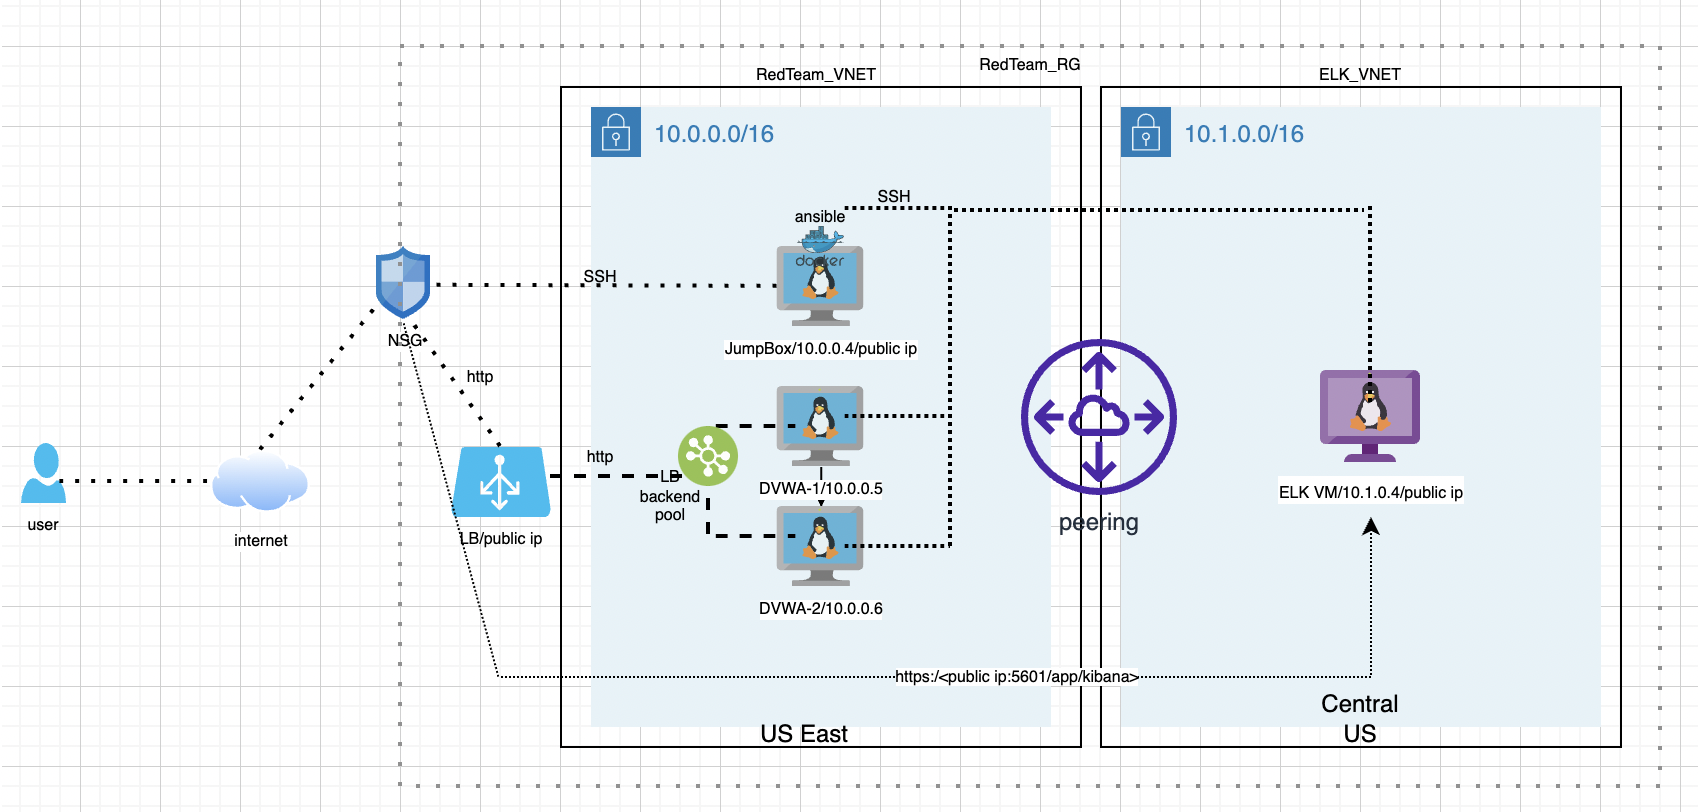
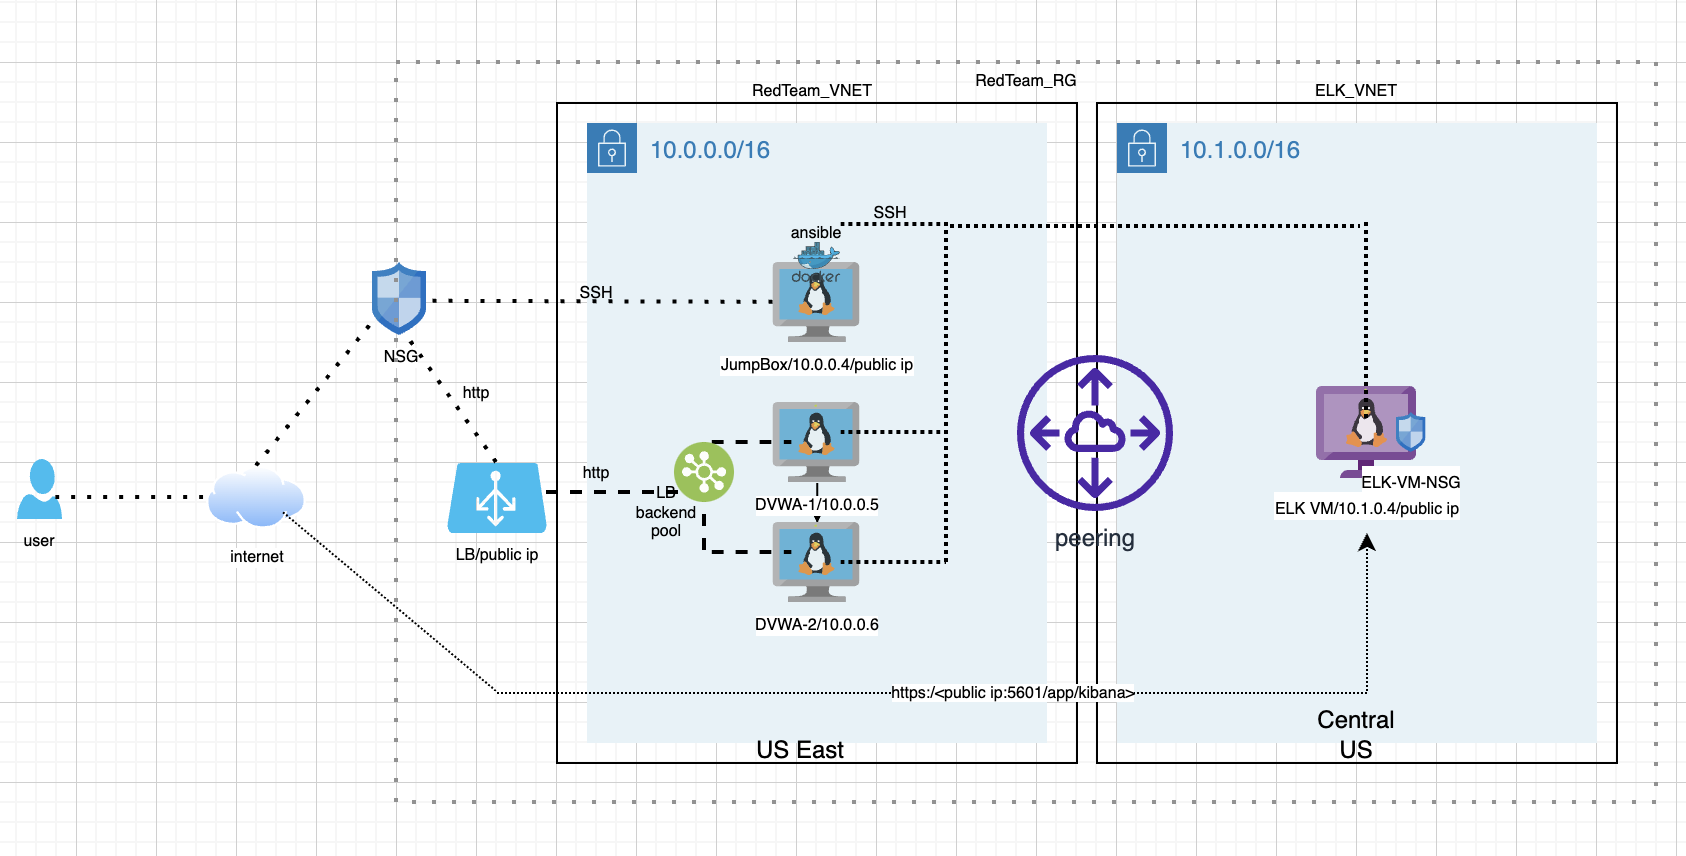
Updated readme

diff --git a/README.md b/README.md
@@ -4,9 +4,7 @@ The files in this repository were used to configure the network depicted below.
 
 ![Network-Diagram](Diagrams/network-diagram.png)
 
-These files have been tested and used to generate a live ELK deployment on Azure. They can be used to either recreate the entire deployment pictured above. Alternatively, select portions of the main.yml file may be used to install only certain pieces of it, such as Filebeat.
-
-  - Ansible/main.yml
+These files have been tested and used to generate a live ELK deployment on Azure. They can be used to either recreate the entire deployment pictured above. Alternatively, select portions of the Ansible/main.yml to install only certain pieces of it, such as Filebeat.
 
 This document contains the following details:
 - Description of the Topology
@@ -21,11 +19,9 @@ This document contains the following details:
 
 The main purpose of this network is to expose a load-balanced and monitored instance of DVWA, the Damn Vulnerable Web Application.
 
-Load balancing ensures that the application will be highly available, in addition to restricting access to the network.
+Load balancing ensures that the application will be highly available, in addition to restricting public access to the network.
 
 Integrating an ELK server allows users to easily monitor the vulnerable VMs for changes to the applications and system statistics.
-- _TODO: What does Filebeat watch for?_
-- _TODO: What does Metricbeat record?_
 
 The configuration details of each machine may be found below.
 _Note: Use the [Markdown Table Generator](http://www.tablesgenerator.com/markdown_tables) to add/remove values from the table_.
@@ -44,27 +40,28 @@ The machines on the internal network are not exposed to the public Internet.
 Only the jumpbox machine can accept connections from the Internet. Access to this machine is only allowed from the following IP addresses:
 - public IP of my local machine
 
-Machines within the network can only be accessed by the ansible docker container running on JumpBox.
-- _TODO: Which machine did you allow to access your ELK VM? What was its IP address?_
+Machines within the network can only be accessed by the ansible docker container running on JumpBox (10.0.0.4).
 
 A summary of the access policies in place can be found in the table below.
 
-| Name     | Publicly Accessible                | Allowed IP Addresses |
-|----------|------------------------------------|----------------------|
-| Jump Box | Yes (only from the whitelisted ip) | 10.0.0.1 10.0.0.2    |
-|          |                     |                      |
-|          |                     |                      |
+| Name     | Publicly Accessible | Allowed IP Addresses |
+|----------|---------------------|----------------------|
+| Jump Box | Yes                 | My local machine IP  |
+| DVWA-1   | No                  | 10.0.0.4,10.1.0.4    |
+| DVWA-2   | No                  | 10.0.0.4,10.1.0.4    |
+| ELK-VM   | No                  | My local machine IP  |
+
+Note: ELK dashboard can be accessed publicly but allowed only my local machine IP. Also DVWA is accessible via public but allowed only my local machine IP. 
 
 ### Elk Configuration
 
-Ansible was used to automate configuration of the ELK machine. No configuration was performed manually, which is advantageous because...
-- It can be run on anywhere against any target machines to deploy the similar components.
+Ansible was used to automate configuration of the ELK machine. No configuration was performed manually, which is advantageous because it can be run on anywhere against any target machines to deploy the similar components.
 
 The playbook implements the following tasks:
-- _TODO: In 3-5 bullets, explain the steps of the ELK installation play. E.g., install Docker; download image; etc._
-- install ELK 
-- install filebeat on DVWA VMs
-- install metricbeat on DVWA VMs
+- install docker
+- increase virtual memory
+- download and launch ELK docker container
+- enable docker service on boot
 
 The following screenshot displays the result of running `docker ps` after successfully configuring the ELK instance.
 
@@ -72,43 +69,38 @@ The following screenshot displays the result of running `docker ps` after succes
 
 ### Target Machines & Beats
 This ELK server is configured to monitor the following machines:
-- _TODO: List the IP addresses of the machines you are monitoring_
+DVWA-1 | 10.0.0.8
+DVWA-2 | 10.0.0.9
 
 We have installed the following Beats on these machines:
-- _TODO: Specify which Beats you successfully installed_
+* filebeat
+* metricbeat
 
 These Beats allow us to collect the following information from each machine:
-- _TODO: In 1-2 sentences, explain what kind of data each beat collects, and provide 1 example of what you expect to see. E.g., `Winlogbeat` collects Windows logs, which we use to track user logon events, etc._
+* The system Filebeat module collects and parses logs created by the system logging service of common Unix/Linux based distributions. 
+* The system Metricbeat module collects CPU, memory, network, and disk statistics from the host. It collects system wide statistics and statistics per process and filesystem.
 
 ### Using the Playbook
 In order to use the playbook, you will need to have an Ansible control node already configured. Assuming you have such a control node provisioned: 
 
 SSH into the control node and follow the steps below:
-- Copy the _____ file to _____.
-- Update the _____ file to include...
-- Run the playbook, and navigate to ____ to check that the installation worked as expected.
+- Copy the ansible/ file to /ansible/. (the target dir may need to create otherwise you can use /etc/ansible dir as well)
+- Update the /etc/ansible/hosts file to include the target machines to run the ansible playbook.
+- Run the playbook, and navigate to **http://<ELK.VM.External.IP>:5601/app/kibana** to check that the installation worked as expected.
 
-_TODO: Answer the following questions to fill in the blanks:_
-- _Which file is the playbook? Where do you copy it?_
-- _Which file do you update to make Ansible run the playbook on a specific machine? How do I specify which machine to install the ELK server on versus which to install Filebeat on?_
-- _Which URL do you navigate to in order to check that the ELK server is running?
+#### Use the steps below to download and run the playbook
 
-_As a **Bonus**, provide the specific commands the user will need to run to download the playbook, update the files, etc._
-
-
-
-=========================================================================================================
-# cybersecurity-uod
-This repo contains the artifacts related to cybersecurity course including the ELK stack project. 
-
-## Accessing Kibana dashboard
 ```
-http://<ELK.VM.External.IP>:5601/app/kibana
-http://104.43.173.6:5601/app/kibana
+# SSH to the ansible control machine
+# to download
+git clone git@github.com:Susanthab/cybersecurity-uod.git
+# update the /etc/ansible/hosts file to include ELK-VM and Web servers
+# update remote_user in /etc/ansible/ansible.cfg with the user you configured to run the ansible playbook on target machine
+# run the command below to configure ELK
+$ ansible-playbook ./main.yml
 ```
 
-
-## Useful commands
+### Useful commands
 ```bash
 # check the docker service status 
 service docker status
